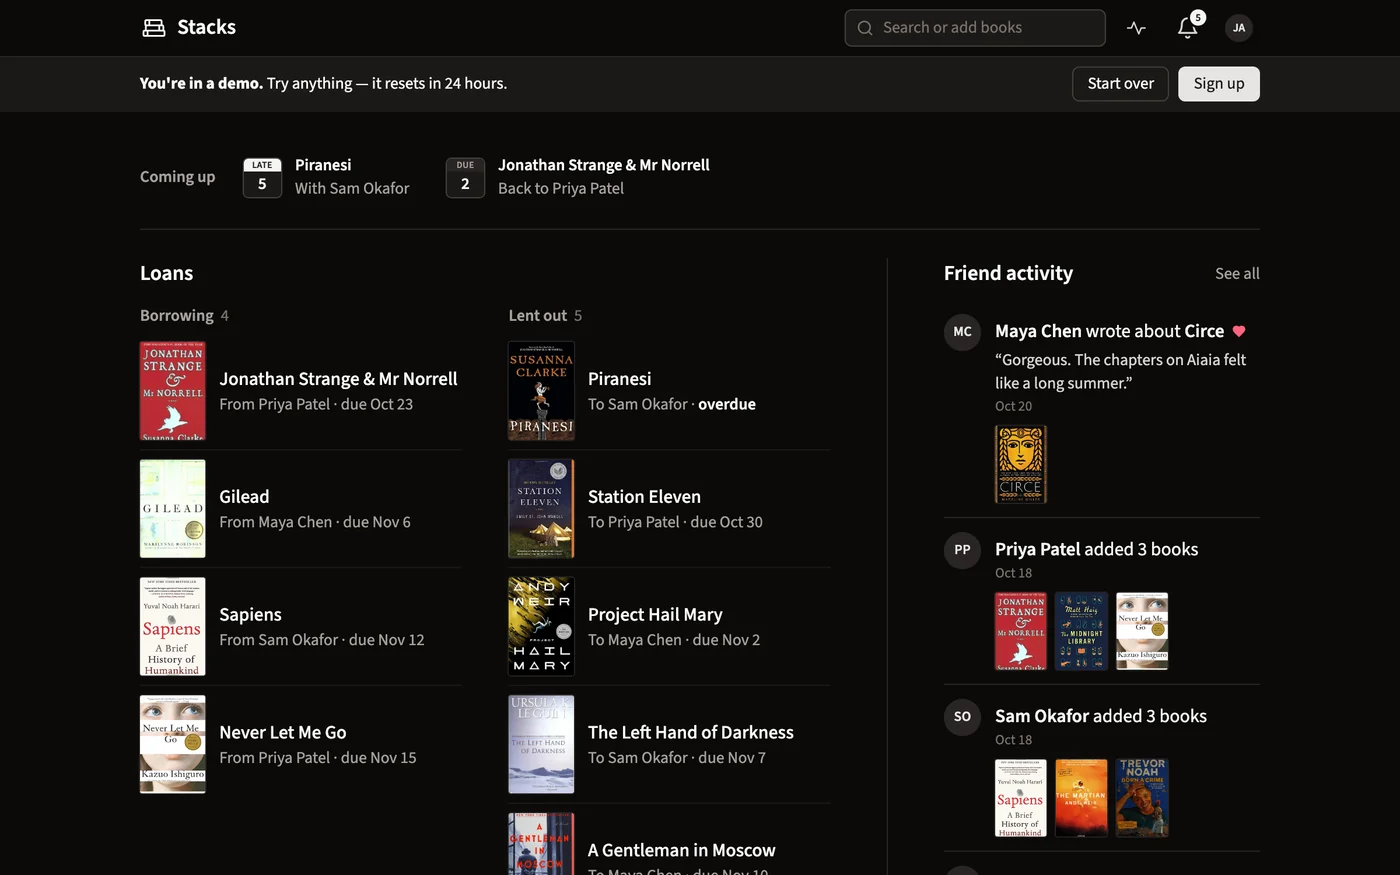
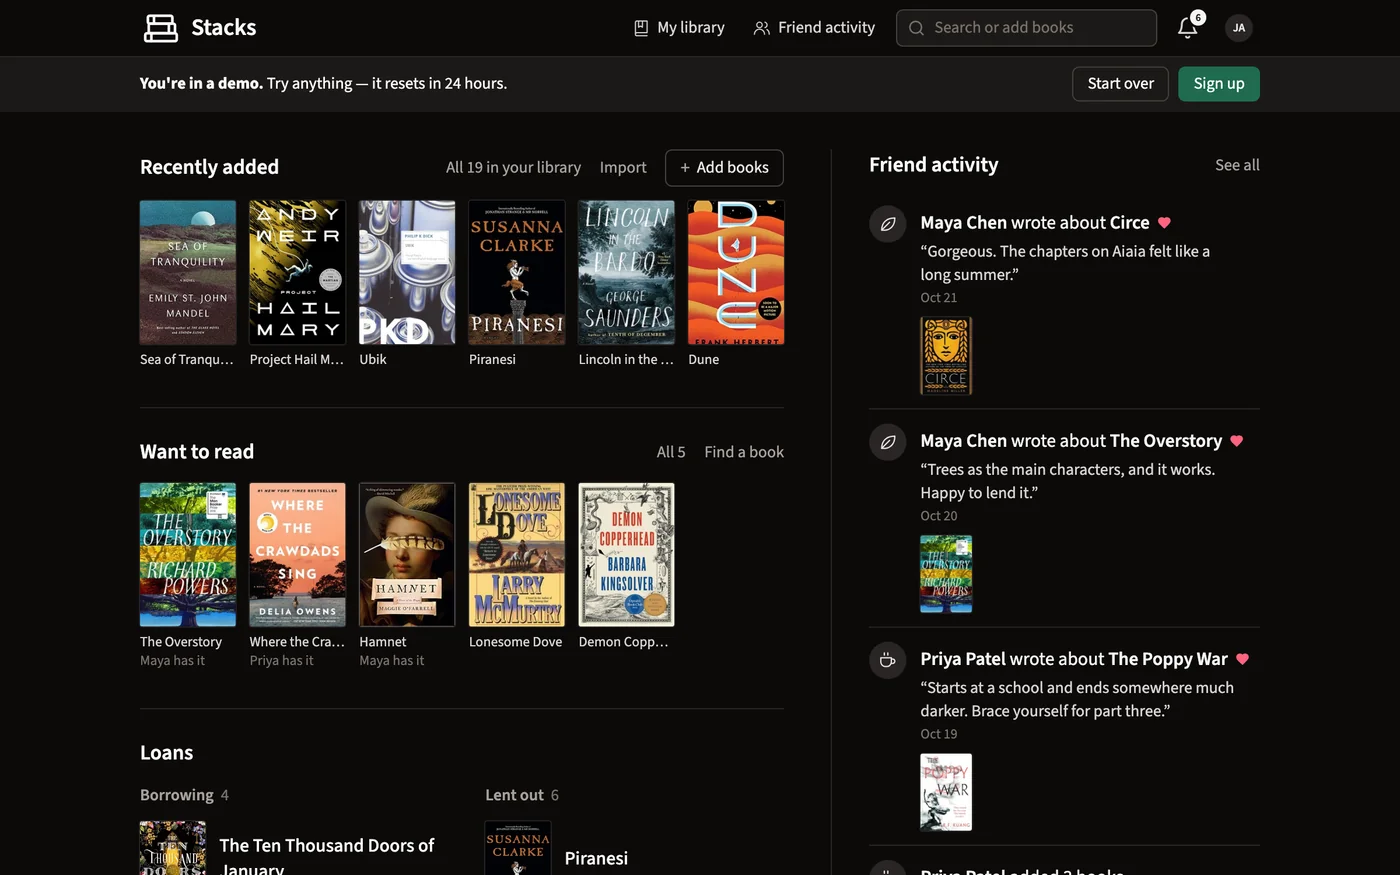
Stacks: case study with feature callouts, and fresh dashboard screenshots
The case study now opens with role, timeline and stack, lists the main features, and adds constraints and a section on testing and shipping (90 unit tests, CI, scheduled jobs). New dark-mode captures of the live demo: the Home dashboard on desktop and phone in the case study, and the dashboard beside Piranesi on a phone in the Projects and home page mockup.

diff --git a/content/Stacks.md b/content/Stacks.md
@@ -2,39 +2,57 @@
 title: Stacks
 socialImage: share/stacks.png
 ---
-A lending library for your own books: catalog what you own, connect with friends, and lend and borrow. [Open Stacks](https://bookstacks.site/) · [Source on GitHub](https://github.com/grahamhagenah/bookshelf)
+A lending library for the books you and your friends own: see who has what, borrow and lend, and keep track of where every copy has gone. [Try the demo](https://bookstacks.site/demo) · [Open Stacks](https://bookstacks.site/) · [Source on GitHub](https://github.com/grahamhagenah/bookshelf)
+
+**My role:** sole designer and developer, from the data model to the emails. **Built:** 2023, rebuilt and extended in 2026. **Stack:** Remix, React, TypeScript, Prisma, SQLite, Tailwind CSS, Fly.io.
 
 ## The problem
 
-Friends lend each other books all the time, and lose track of them just as often. Nobody remembers who has what, and there's no easy way to see what's on a friend's shelf before asking. Stacks puts your library online so friends can browse it and ask to borrow, and keeps track of where every book has gone.
+Friends lend each other books all the time, and lose track of them just as often. Nobody remembers who has what, and there's no easy way to see what's on a friend's shelf before asking. Reading apps like Goodreads track what you've read, not the physical copies or who's holding them.
 
 ## What it does
 
-You add books by searching the Open Library catalog, and they appear on your shelf with their covers. Friends can browse your shelf, request a book, and get an email when you approve it. Stacks records who has each book, when it's due back, and its lending history. A public link lets anyone browse your shelf without an account.
+- **Borrow from friends.** Search once to see which friends own a book, and ask for it with a tap. The owner sets how long you can keep it, and Stacks reminds you both when it's due. If it's already out, you can join a waiting line.
+- **Want to read.** Keep a list, and hear as soon as a friend adds one of those books to their shelf.
+- **Every copy has a history.** Hearts and short notes stay with a book as it moves between friends, alongside a record of everyone who's borrowed it.
+- **Fill a shelf in minutes.** Scan barcodes with a phone's camera, or import a Goodreads or StoryGraph export.
+- **Households and sharing.** Housemates can share one shelf with their own logins, and a public link lets anyone browse your books without an account.
+- **Reminders that matter.** Notifications before and after a book is due, an email for each borrow request, and a weekly email of what friends did and what's due back.
 
 <figure class="case-figure">
-<img src="/screenshots/case-studies/stacks-home.webp" width="1400" height="875" loading="lazy" decoding="async" alt="Stacks' home page in dark mode: Coming up, with calendar badges marking Piranesi 5 days late with Sam Okafor and Jonathan Strange & Mr Norrell due back to Priya Patel in 2 days, then Loans in two columns, four books borrowed from friends and five lent to them, each with its cover, who it's from or to and when it's due, and a Friend activity feed beside them, with Maya Chen's note on Circe and friends adding new books">
-<figcaption>Home: what's due back soon, every loan in both directions, and what friends are reading and adding.</figcaption>
+<img src="/screenshots/case-studies/stacks-home.webp" width="1400" height="875" loading="lazy" decoding="async" alt="Stacks' home page in dark mode: a row of recently added books, a want-to-read row noting which friend has each one, the start of the loans list, and a Friend activity column of notes about Circe, The Overstory and The Poppy War, each with a heart and the book's cover">
+<figcaption>Home: what's new on your shelf, books you want that a friend already has, your loans, and what friends are saying.</figcaption>
 </figure>
 
-## History
+## Constraints I set
 
-I built the first version by hand in December 2023: the data model, friends, notifications, and the mobile layouts. I came back to it in January 2026 and rebuilt much of it, adding book requests and due dates, email notifications, public share links, dark mode, and a lighter, faster interface.
+- **Physical books only.** No ratings, no recommendation engine, no public profiles. Every feature is about getting a copy into a friend's hands.
+- **Easy to say no.** Every request goes to the owner, who can decline. Lending is never automatic.
+- **Try it without signing up.** Anyone curious should be able to use every feature in under a minute.
 
 ## Decisions
 
-**Lighter, not heavier.** The first version leaned on Material UI. In the rebuild I removed it in favour of plain Tailwind CSS, cutting the bundle size so pages load faster on a phone.
+**A demo you can actually use.** "Try the demo" builds a private sandbox for each visitor: a stocked library, friends with their own shelves, loans in both directions (one overdue), and requests waiting to be answered. Demo friends approve requests at once so every flow can be tried. Sandboxes never send email, never appear to real users, and are deleted after 24 hours or when the visitor starts over.
 
-**Search you can narrow.** Open Library's catalog is enormous, so search filters by type and language and pages through results, rather than showing one long list.
+**Answer the question people open it with.** The home page leads with what's new and what's due, then loans in both directions, with friends' activity beside them, so the answer to "who has my book?" is on the first screen.
 
-**Mobile as a first-class layout.** Headers, search, notifications and shared shelves each have their own phone layout instead of a squeezed desktop page.
+**Mobile as a first-class layout.** People scan barcodes and check loans on their phones, so headers, search, notifications and book pages each have their own phone layout rather than a squeezed desktop page.
 
-**Sharing without signing up.** The people most likely to look at your shelf aren't users yet, so a public link shows it to anyone.
+<figure class="case-figure case-figure-phone">
+<img src="/screenshots/case-studies/stacks-phone.webp" width="700" height="1515" loading="lazy" decoding="async" alt="Stacks on a phone in dark mode: recently added books four across, a want-to-read row showing Maya or Priya has each one, and the start of Loans, with The Ten Thousand Doors of January from Priya Patel due in 2 days">
+<figcaption>On a phone, the same home page in one column, with what's due called out first.</figcaption>
+</figure>
+
+**Lighter, not heavier.** The first version leaned on Material UI. In the rebuild I replaced it with plain Tailwind CSS, cutting the bundle so pages load faster on a phone.
+
+## How it's tested and shipped
+
+90 unit tests (Vitest) cover the data models: lending, holds, households, imports, notes, the demo sandbox and more. Every push is linted, including ESLint's accessibility rules, type-checked and tested in GitHub Actions, and a deploy to Fly.io goes out only once the tests pass. Scheduled jobs post daily due-date reminders and send the weekly digest, and database changes go through Prisma migrations.
 
 ## How it's built
 
-Remix for the full-stack React app, Prisma with SQLite for the data, Tailwind CSS for styling, Resend for email, the Open Library API for book data and covers, all deployed on Fly.io.
+Remix for the full-stack React app, written in TypeScript; Prisma with SQLite for the data; Tailwind CSS for styling; Resend for email; ZXing for barcode scanning; and the Open Library API for book data and covers. It runs on Fly.io, with light, dark and automatic themes.
 
 ## How I work
 
-The first version was written by hand. For the 2026 rebuild, I designed the changes and directed the work, with much of the code written using AI (Claude).
+I built the first version by hand in December 2023: the data model, friends, notifications and the mobile layouts. When I came back to it in 2026, I designed the changes and directed the work, with much of the code written using AI (Claude).

diff --git a/content/Index.md b/content/Index.md
@@ -37,7 +37,7 @@ Noteworthy projects I've built on my own time, from 2021 to 2026. Most are writt
 </a>
 <a class="link-button project-case" href="/bounce">Read the case study →</a>
 <a class="project" href="https://bookstacks.site/">
-<img class="mockup" src="/screenshots/bookshelf.webp" width="1600" height="1000" loading="lazy" decoding="async" alt="Stacks' demo library in dark mode in a desktop browser window: a banner saying you're in a demo, filters for books on the shelf, lent out, borrowed and loved, and a grid of book covers, the first row all lent out and loved, beside a phone open to Piranesi by Susanna Clarke, its cover next to its title and a Loved button, lent to Sam Okafor and overdue by 5 days, with buttons to send a reminder, extend the loan or mark it returned">
+<img class="mockup" src="/screenshots/bookshelf.webp" width="1600" height="1000" loading="lazy" decoding="async" alt="Stacks' home page in dark mode in a desktop browser window: rows of recently added books and books to read next, noting which friend has each, the start of the loans list, and a Friend activity column of notes on Circe, The Overstory and The Poppy War, beside a phone open to Piranesi by Susanna Clarke, lent to Sam, loved, with Priya waiting for it next">
 <h3>Stacks <span class="project-year">2023</span></h3>
 <p>A lending library for your own books: catalog what you own, connect with friends, and lend and borrow.</p>
 <p class="project-tech">Remix · Prisma · SQLite · Tailwind CSS · Fly.io</p>

diff --git a/content/Projects.md b/content/Projects.md
@@ -27,7 +27,7 @@ Noteworthy projects I've built on my own time, from 2021 to 2026. Most are writt
 </a>
 <a class="link-button project-case" href="/bounce">Read the case study →</a>
 <a class="project" href="https://bookstacks.site/">
-<img class="mockup" src="/screenshots/bookshelf.webp" width="1600" height="1000" loading="lazy" decoding="async" alt="Stacks' demo library in dark mode in a desktop browser window: a banner saying you're in a demo, filters for books on the shelf, lent out, borrowed and loved, and a grid of book covers, the first row all lent out and loved, beside a phone open to Piranesi by Susanna Clarke, its cover next to its title and a Loved button, lent to Sam Okafor and overdue by 5 days, with buttons to send a reminder, extend the loan or mark it returned">
+<img class="mockup" src="/screenshots/bookshelf.webp" width="1600" height="1000" loading="lazy" decoding="async" alt="Stacks' home page in dark mode in a desktop browser window: rows of recently added books and books to read next, noting which friend has each, the start of the loans list, and a Friend activity column of notes on Circe, The Overstory and The Poppy War, beside a phone open to Piranesi by Susanna Clarke, lent to Sam, loved, with Priya waiting for it next">
 <h2>Stacks <span class="project-year">2023</span></h2>
 <p>A lending library for your own books: catalog what you own, connect with friends, and lend and borrow.</p>
 <p class="project-tech">Remix · Prisma · SQLite · Tailwind CSS · Fly.io</p>
